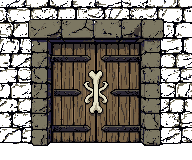
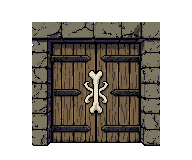
Doors built like the Unity isometric-tilemaps sample: the wall runs through the doorway
Vincent, 2026-09-27, pointing at F:/2D_IsoTilemaps-master/2D_IsoTilemaps_Project and then at our
own game: "Please mimic the way this project does doors", "see how the wall continues above the
door properly", "The wall should be the wall, there shouldnt be wall pattern in the door art. That
is the job of the wall tile map", "make sure the door doesnt have a brick pattern in it, it should
just be a door", and "I want it to visually look correct when the door is closed".

WHAT THE SAMPLE ACTUALLY DOES, analysed: it has NO door code at all - one prefab, one sprite, zero
scripts. wall_door_NW.png is 96x111 at PPU 64 = 1.500 x 1.734u, ONE self-contained chunk of wall
carrying the opening, both piers AND a full lintel, laid over a run that is never cut. It has no
shoulder and no head to bridge because it never makes a hole.

SO THE WALL NOW RUNS STRAIGHT THROUGH THE DOORWAY AND THE DOOR DRAWS OVER IT.
  - WallPiecePass.DoorwayWall (was DoorShoulders) fills the FOUR one-unit slots the opening's two
    map cells caused Slots to skip, from centre-2 to centre+2, with the SIDE'S own tile - straight
    on far sides, wall_broken_stub on near ones. It meets the surviving run at centre +/- 2 exactly,
    with zero overlap; the shoulder pair it replaces sat at centre +/- 2.0 and double-painted 0.500u.
  - WallPiece carries a BehindDoor flag and WallSpawner drops those pieces one sorting order. The
[…]

Changed region(s): [[0.0, 0.0, 1.0, 0.9062]]

diff --git a/Assets/NoSafeCircle/DoorPrototype/Scripts/World/Rooms/WallPiecePass.cs b/Assets/NoSafeCircle/DoorPrototype/Scripts/World/Rooms/WallPiecePass.cs
@@ -92,7 +92,7 @@ namespace NoSafeCircle.DoorPrototype.World.Rooms
                 }
             }
 
-            DoorShoulders(pieces, room, state);
+            DoorwayWall(pieces, room, state);
             return pieces;
         }
 
@@ -192,7 +192,7 @@ namespace NoSafeCircle.DoorPrototype.World.Rooms
             if (highFree) pieces.Add(new WallPiece(WallPieceKind.EndCap, OnLine(alongX, high, line), -lowInward, alongX));
         }
 
-        private static void DoorShoulders(List<WallPiece> pieces, WallRoom room, WallPassState state)
+        private static void DoorwayWall(List<WallPiece> pieces, WallRoom room, WallPassState state)
         {
             foreach (Vector3 door in room.Doors)
             {
@@ -207,42 +207,36 @@ namespace NoSafeCircle.DoorPrototype.World.Rooms
                 float centre = alongX ? door.x : door.z;
                 float half = room.DoorWidth * 0.5f;
 
-                // THE SHOULDER. WallSpawner's own note: the visual door gap is 4 units against a
-                // contract-pinned 3-unit collider gap, so 0.500u each side of the leaf sits
-                // between the door's edge and where the wall run resumes. wall_door_jamb used to
-                // cover it and is no longer placed: measured 2026-09-27, it drew a COMPLETE stone
-                // portal - two piers plus a lintel - twice, flanking a leaf that carries its own
-                // frame, and 75% of it was overlapped by the stub run anyway.
+                // THE WALL RUNS STRAIGHT THROUGH THE DOORWAY, and the door draws over it.
                 //
-                // Fill it with the WALL'S OWN TILE, which is what Vincent asked for: "the brick
-                // around the door should be the same tiles of the wall". Same tiles by identity,
-                // not by resemblance, and no new art.
+                // Vincent, 2026-09-27, pointing at F:/2D_IsoTilemaps-master: "Please mimic the
+                // way this project does doors" and "see how the wall continues above the door
+                // properly". That project never cuts its wall - its door is one sprite laid over
+                // an unbroken run - so it has no opening to fill and no head to bridge. This is
+                // the same architecture, built the way he asked for it: "The wall should be the
+                // wall ... That is the job of the wall tile map."
                 //
-                // WHICH tile is the SIDE'S, exactly as Slots decides it: far (north/west) sides
-                // are wall_straight, near (south/east) sides are the 2.797-unit wall_broken_stub.
-                // Measured 2026-09-27 from this pass: FOUR of the five doors are claimed on a
-                // SOUTH edge, so a flat Straight here would have been the wrong art AND the wrong
-                // height at 8 of the 10 shoulder points. A pilaster is never a candidate - the
-                // shoulder is off the slot lattice and the rhythm keeps a run's end slots plain.
+                // I raised that door_bonestone_open_SW_000 is 0.0% opaque across its centre band
+                // (measured; every closed state is ~97%), so the wall shows through an OPEN door.
+                // He answered "Dont worry about the problem of the wall being there in the way".
+                // Recorded because it is a known, accepted consequence rather than an oversight.
                 //
-                // BASE piece, deliberately. WallPiece's doc: a base Point is the slot CENTRE and
-                // Inward is the inset direction; an overlay Point is a run ENDPOINT and Inward
-                // runs along the run. So centre +/- (half + 0.5) centres a 1.000u wall_straight
-                // on [centre+1.5, centre+2.5] and its mirror - covering the shoulder exactly and
-                // touching the leaf without overlapping it. Emitting it with the jamb's OVERLAY
-                // arguments would have centred it ON the gap edge, painting 0.5u ACROSS the leaf:
-                // fill across a doorway is what occluded a door once already.
+                // FOUR SLOTS, NOT TWO. The opening is two map cells at two units a cell, so Slots
+                // skips exactly the four one-unit slots starting at centre-2 .. centre+1. Filling
+                // those four meets the run at centre +/- 2 exactly, with NO overlap - unlike the
+                // shoulder pair this replaces, which sat at centre +/- 2.0 and double-painted
+                // 0.500u into the first run slot on each side.
                 //
-                // Trialled in PlayMode before it was written: the 0.500u band closes and the door
-                // is not occluded. Base pieces are placed at Point directly rather than through
-                // AccentPosition, so they also carry the prefab's own 0.151 inward inset and sit
-                // on the floor - both of which wall_door_jamb lacked.
-                Vector3 inward = WallRoom.Inward(edge);
-                float shoulder = half + 0.5f;
+                // The tile is the SIDE'S own, as Slots decides it: far (north/west) sides take
+                // wall_straight, near (south/east) sides the 2.797-unit wall_broken_stub. Four of
+                // the five doors are claimed on a SOUTH edge, so most doorways are stub.
                 bool far = edge == WallEdge.North || edge == WallEdge.West;
                 WallPieceKind kind = far ? WallPieceKind.Straight : WallPieceKind.Stub;
-                pieces.Add(new WallPiece(kind, OnLine(alongX, centre - shoulder, line), inward, alongX));
-                pieces.Add(new WallPiece(kind, OnLine(alongX, centre + shoulder, line), inward, alongX));
+                Vector3 inward = WallRoom.Inward(edge);
+                for (float start = centre - half - 0.5f; start < centre + half + 0.5f; start += 1f)
+                {
+                    pieces.Add(new WallPiece(kind, OnLine(alongX, start + 0.5f, line), inward, alongX, true));
+                }
             }
         }
 

diff --git a/Assets/NoSafeCircle/DoorPrototype/Tests/WallSpawnerPlayModeTests.cs b/Assets/NoSafeCircle/DoorPrototype/Tests/WallSpawnerPlayModeTests.cs
@@ -238,16 +238,16 @@ namespace NoSafeCircle.DoorPrototype.Tests
             public bool Far => Edge == WallEdge.North || Edge == WallEdge.West;
         }
 
-        // THE DOOR SHOULDERS. The visual opening is 4.000 units (a '++' cell pair at two units a
-        // cell) and the contract-pinned collider gap is 3.000, so the leaf covers x[-1.5..1.5]
-        // about its centre while the slot lattice cannot resume until the next integer - leaving
-        // 0.500 units of bare wall line on each side. Vincent, twice: "The sides of the door still
-        // have a gap" and "the brick around the door should be the same tiles of the wall".
+        // THE DOORWAY SLOTS. The wall runs STRAIGHT THROUGH the opening and the door draws over
+        // it - Vincent, 2026-09-27, pointing at F:/2D_IsoTilemaps-master: "Please mimic the way
+        // this project does doors", "see how the wall continues above the door properly", and
+        // "The wall should be the wall ... That is the job of the wall tile map".
         //
-        // A 1.000-unit tile centred at centre +/- (half + 0.5) covers that 0.500 exactly and
-        // overlaps the first run slot by the other 0.500. THE OVERLAP IS OUTWARD ON PURPOSE:
-        // 1.000 of tile cannot fill 0.500 of hole without going somewhere, and the alternative is
-        // inward, across the leaf - which is the fill-across-a-doorway that occluded a door once.
+        // FOUR slots per doorway, not two shoulders. The opening is two map cells at two units a
+        // cell, so the piece pass skips exactly the four one-unit slots from centre-2 to centre+2.
+        // Filling those four meets the surviving run at centre +/- 2 exactly, with NO overlap -
+        // unlike the shoulder pair this replaced, which sat at centre +/- 2.0 and double-painted
+        // 0.500u into the first run slot on each side.
         //
         // Derived here from the layouts alone - door centre, DoorWidth, and which bound the centre
         // lies on - so it shares nothing with WallPiecePass.DoorShoulders but the arithmetic it is
@@ -266,9 +266,10 @@ namespace NoSafeCircle.DoorPrototype.Tests
                     bool alongX = AlongX(edge);
                     float line = room.Line(edge);
                     float centre = alongX ? door.x : door.z;
-                    float reach = room.DoorWidth * 0.5f + 0.5f;
-                    foreach (float along in new[] { centre - reach, centre + reach })
+                    float half = room.DoorWidth * 0.5f;
+                    for (float start = centre - half - 0.5f; start < centre + half + 0.5f; start += 1f)
                     {
+                        float along = start + 0.5f;
                         shoulders.Add(new Shoulder(room, edge,
                             alongX ? new Vector3(along, 0f, line) : new Vector3(line, 0f, along)));
                     }
@@ -520,14 +521,35 @@ namespace NoSafeCircle.DoorPrototype.Tests
             SpriteRenderer[] renderers = spawnerObject.GetComponentsInChildren<SpriteRenderer>(true);
             Assert.Greater(renderers.Length, 0, "Nothing spawned, so this passes vacuously.");
 
+            var doorwayPoints = new HashSet<(int, int)>();
+            foreach (Shoulder doorway in ExpectedShoulders(LayoutRooms()))
+            {
+                doorwayPoints.Add(Key(doorway.Point));
+            }
+            Assert.AreEqual(20, doorwayPoints.Count,
+                "Five doorways at four slots each is 20 points; got " + doorwayPoints.Count
+                + ", so the exception below is being applied to the wrong set.");
+
             foreach (SpriteRenderer renderer in renderers)
             {
                 string who = renderer.transform.parent != null ? renderer.transform.parent.name : renderer.name;
                 Assert.IsNotNull(renderer.sprite, who + " has a null sprite after Instantiate.");
                 Assert.AreEqual(WorldSpriteConvention.SortingLayerName, renderer.sortingLayerName,
                     who + " is on sorting layer '" + renderer.sortingLayerName + "'; the LAYER is compared before the order.");
-                Assert.AreEqual(WorldSpriteConvention.SortingOrder, renderer.sortingOrder,
-                    who + " carries sortingOrder " + renderer.sortingOrder + "; any other value outranks position unconditionally.");
+                // ONE DELIBERATE EXCEPTION, AND IT IS THE POINT OF THE EXCEPTION THAT IT OUTRANKS
+                // POSITION. A piece filling a DOORWAY slot must lose to the door leaf. The sort is
+                // y + 0.26z with lower in front, and a base piece's Visual is inset toward the
+                // room - so on a south edge it lands behind the leaf and on a north edge in front
+                // of it. Four of the five doors are south and D5 is north, so position alone
+                // cannot do both; these pieces take one order lower instead, and keep the inset so
+                // they stay aligned with the run they continue.
+                int wantOrder = doorwayPoints.Contains(Key(renderer.transform.parent.position))
+                    ? WorldSpriteConvention.SortingOrder - 1
+                    : WorldSpriteConvention.SortingOrder;
+                Assert.AreEqual(wantOrder, renderer.sortingOrder,
+                    who + " carries sortingOrder " + renderer.sortingOrder + "; expected " + wantOrder
+                    + ". Any value but the convention outranks position unconditionally, so the only"
+                    + " piece allowed to differ is one that must lose to a door.");
                 Assert.AreEqual(SpriteSortPoint.Pivot, renderer.spriteSortPoint,
                     who + " sorts by Center rather than Pivot, which reads the sprite's middle instead of its ground contact.");
                 // TOLERANCE, NOT EQUALITY, AND THE REASON IS THE PROPERTY BEING READ. lossyScale is

diff --git a/Assets/NoSafeCircle/DoorPrototype/Scripts/World/WallSpawner.cs b/Assets/NoSafeCircle/DoorPrototype/Scripts/World/WallSpawner.cs
@@ -183,6 +183,22 @@ namespace NoSafeCircle.DoorPrototype.World
                 Vector3 local = visual.localPosition;
                 float sign = piece.AlongX ? piece.Inward.z : piece.Inward.x;
                 visual.localPosition = new Vector3(local.x, local.y, Mathf.Abs(local.z) * sign);
+
+                // A DOORWAY PIECE MUST LOSE TO THE DOOR, AND POSITION CANNOT SAY SO. The sort is
+                // y + 0.26z with lower in front; the inset above puts this Visual at line+0.151
+                // on a south edge (behind the door, correct) and line-0.151 on a north edge,
+                // where it would draw IN FRONT and hide the leaf. Four of the five doors are
+                // south and D5 is north, so the same code has to do both. Sorting order outranks
+                // position, so one step down is unconditional - and the inset is left alone, so
+                // the piece still lines up with the run it continues.
+                if (piece.BehindDoor)
+                {
+                    var renderer = visual.GetComponent<SpriteRenderer>();
+                    if (renderer != null)
+                    {
+                        renderer.sortingOrder = WorldSpriteConvention.SortingOrder - 1;
+                    }
+                }
             }
 
             return 1;

diff --git a/Assets/NoSafeCircle/DoorPrototype/Scripts/World/Rooms/WallPiece.cs b/Assets/NoSafeCircle/DoorPrototype/Scripts/World/Rooms/WallPiece.cs
@@ -29,12 +29,21 @@ namespace NoSafeCircle.DoorPrototype.World.Rooms
         public readonly Vector3 Inward;
         public readonly bool AlongX;
 
-        public WallPiece(WallPieceKind kind, Vector3 point, Vector3 inward, bool alongX)
+        /// <summary>This piece fills a DOORWAY slot and must draw behind the door leaf. The sort
+        /// is <c>y + 0.26z</c> with LOWER IN FRONT, and a base piece's Visual is inset toward the
+        /// room - so on a south edge it lands behind the door and on a north edge in front of it.
+        /// Position cannot express "always behind" here, so the spawner drops these one sorting
+        /// order instead, which outranks position, and the inset is left alone so the piece stays
+        /// aligned with its neighbours.</summary>
+        public readonly bool BehindDoor;
+
+        public WallPiece(WallPieceKind kind, Vector3 point, Vector3 inward, bool alongX, bool behindDoor = false)
         {
             Kind = kind;
             Point = point;
             Inward = inward;
             AlongX = alongX;
+            BehindDoor = behindDoor;
         }
     }
 
